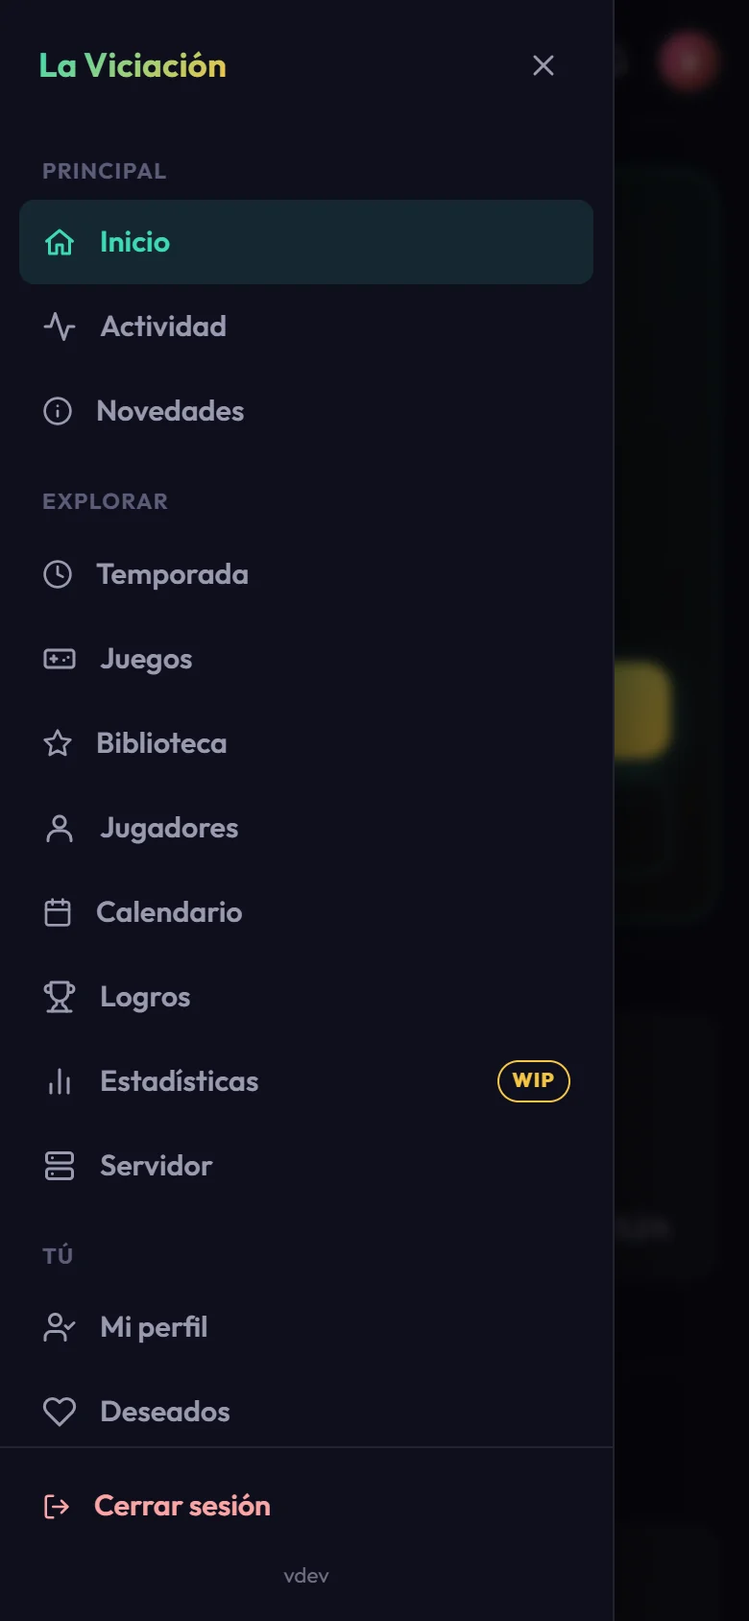
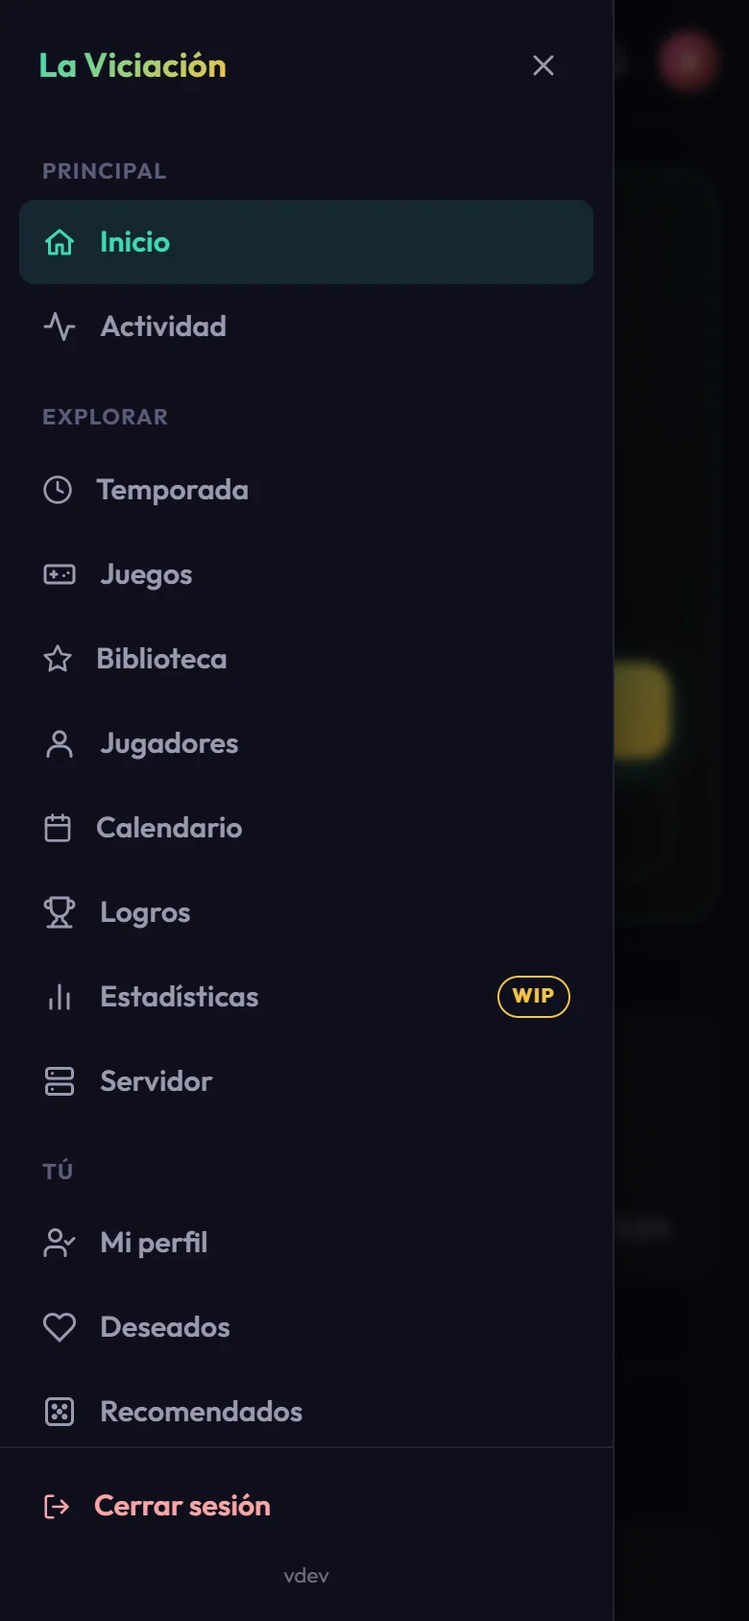
docs: reorganize the user guide so each menu page is easy to find
Split El grupo into El grupo and Juegos, biblioteca y calendario, and Deseados, recomendados y retos into Deseados y recomendados, Retos and Asistente. Rename the page of the timer to Inicio. The menu in Primeros pasos now links to the section of every entry, and Novedades, the assistant and the Resumen have a section of their own there. Add two FAQ entries (the city and birth date, and where the games and sessions are) and retake the menu screenshots, which showed an entry that no longer exists.

diff --git a/docs/guia-usuario/descubrir.md b/docs/guia-usuario/descubrir.md
@@ -1,6 +1,6 @@
-# Deseados, recomendados y retos
+# Deseados y recomendados
 
-Tres páginas del bloque **Tú** para decidir a qué jugar y marcarte objetivos.
+Dos páginas del bloque **Tú** para decidir a qué jugar. Los objetivos con fecha están en [Retos](retos.md) y, si quieres preguntarle algo a alguien, tienes el [asistente](asistente.md).
 
 ## Deseados
 
@@ -22,55 +22,3 @@ Un juego se queda en la lista hasta que lo quites tú con la ✕, aunque ya lo e
 **Menú → Recomendados** te propone **12 juegos** que tienen otros jugadores y tú nunca has jugado. Se escogen al azar, favoreciendo los que encajan contigo. Cada visita, o **Otras recomendaciones**, puede darte unos distintos.
 
 ![Juegos recomendados](../assets/screens/recommendations.webp){ .screenshot }
-
-## Retos
-
-**Menú → Retos** reúne objetivos con fecha de inicio y de fin, a diferencia de los logros. Hay dos tipos:
-
-![La página de retos](../assets/screens/challenges.webp){ .screenshot }
-
-**Del grupo** (los lanza un administrador):
-
-- **Reto de juego** (el *juego del mes* cuando dura un mes): un juego, un mes, una semana o unas fechas, unas horas mínimas por jugador y un total entre todos. Ves una barra por jugador (verde al llegar a su mínimo) y otra para el grupo.
-- **Temático**: una temática (un género, una ambientación o un tema: Terror, Metroidvania, Medieval…), un mes y lo que tiene que hacer cada jugador: jugar un número de horas o completar al menos un juego. Cuenta cualquier juego de esa temática. En la tarjeta del reto ves cuántos juegos de esa temática tiene el grupo y cuántos tienes tú (en rojo si no tienes ninguno, para que decidas si compras alguno, te sales o no te apuntas), y **Ver los juegos** los lista con quién los tiene.
-
-- **Horas entre todos**: un mes y un total de horas que tiene que sumar el grupo entero, de cualquier juego. No hay mínimo por jugador: cada uno ve cuánto ha aportado, y cumple su parte si el grupo llega al total y él ha jugado algo.
-
-La página reúne los retos en bloques: **Del grupo**, **Tuyos**, **Duelos** (los tuyos) y **De otros jugadores** (los personales y duelos que han lanzado los demás, que puedes mirar). En cada bloque van primero los que están en marcha y luego los terminados, pero solo se enseñan los **5 últimos terminados**: **Ver todos los terminados** carga el resto. Arriba, una línea resume tus retos («3 retos en marcha · 1 cumplido · 1 con poco tiempo»). En cada tarjeta ves cuánto tiempo queda y el progreso de cada jugador.
-
-Puedes **dejar de participar** y volver mientras el reto no haya terminado. Cuando el grupo alcanza el total, se avisa una vez. Un administrador puede lanzar un reto del grupo como **voluntario**: no cuenta nadie hasta que se **apunta** (botón *Apuntarme*), y solo cuentan los que se apuntan.
-
-**Proponer un reto al grupo.** Con **Proponer al grupo** sugieres un reto de juego o un reto temático (el juego o la temática, el periodo —un mes, una semana o unas fechas— y las horas). Un administrador lo aprueba, y entonces se lanza como un reto del grupo, o lo rechaza con una nota. En **Tus propuestas** ves en qué estado está cada una y puedes **retirar** las que aún esperan respuesta. Puedes tener hasta 3 esperando a la vez.
-
-
-**Personales** (los lanzas tú con **Nuevo reto**; los demás los ven, pero nadie recibe aviso):
-
-- **Probar un género**: elige un género de la base de datos y juega unas horas (2 por defecto) o completa uno de esos juegos, en una semana, un mes o tres meses. Solo cuentan juegos de ese género que no tuvieras ya en tu biblioteca.
-- **Bajar la deuda**: un objetivo sobre tu **deuda** (lo que te falta para terminar los juegos que has empezado), en porcentaje o en número de juegos. La app te dice, antes de lanzarlo, lo que significa («El 25 % de tu deuda son unas 10 h»).
-- **Racha**: juega varios días seguidos (o varios días distintos) dentro del plazo. Un día cuenta cuando juegas al menos 10 minutos, igual que en las rachas y los logros.
-- **Sesiones largas**: haz un número de sesiones de al menos los minutos que elijas, de cualquier juego.
-- **Variar de género**: juega a varios géneros distintos, dedicando a cada uno las horas que pidas. El tiempo de un juego cuenta en cada uno de sus géneros.
-- **Cumplir deseados**: empieza o completa juegos de tu lista de deseados. Solo cuentan los que ya estaban en ella el día que lanzas el reto; si quitas uno de la lista, deja de contar.
-- **Terminar lo empezado**: completa un número de los juegos que ya tenías empezados (con una sesión de 10 minutos o más, sin completar ni abandonar) cuando lanzas el reto. Los juegos que empieces después no cuentan.
-- **Terminar antes de empezar**: no puedes empezar ningún juego nuevo sin haber terminado antes uno de los que ya tenías empezados. **Ganas** al completar uno de ellos y **pierdes** en el momento en que empiezas un juego nuevo sin haber completado antes ninguno. Si lo haces el mismo día, cuenta primero el que completaste. Para lanzarlo necesitas tener al menos un juego empezado y sin terminar.
-
-**Cómo vas.** Cada reto en el que participas te dice, dentro de la propia app, cómo estás: *Ya has cumplido tu parte*, *Vas bien*, *Vas por detrás del ritmo* (llevas menos de lo que toca por el tiempo que ha pasado), o, en los últimos días, *Quedan 2 días: te faltan 1,5 h*. Arriba de la página se cuenta cuántos tienes en marcha, cuántos cumplidos y cuántos con poco tiempo, y en el **Inicio** aparece una tarjeta **Mis retos** con los que están en marcha, los más urgentes primero. Es solo para ti: no se avisa a nadie.
-
-- **Duelo de horas**, **Duelo en un juego** y **Duelo de completados**: retas a otro jugador a ver quién juega más (en total o a un juego concreto) o quién completa más juegos, durante una semana, un mes o tres meses. **Empieza al lanzarlo**; el retado puede **rechazarlo durante las primeras 48 horas** (el rechazo no se puede deshacer). Pasado ese plazo, el duelo sigue adelante. Gana quien más horas (o más juegos completados) sume y, si empatan, ganan los dos. Un duelo rechazado no cuenta para nadie. Los demás lo ven, pero nadie recibe aviso. El retado lo rechaza con **Rechazar duelo**, que desaparece pasadas las 48 horas.
-
-Un reto personal o un duelo que lanzaste lo puedes quitar con **Borrar** (pide una segunda pulsación).
-
-El administrador puede lanzar un reto del grupo (de juego o temático) **como competición**: además de cumplir el objetivo, se ve quién va primero, con medallas, y el puesto aparece en tu línea.
-
-Tus retos terminados, con cómo te fue, quedan en **Perfil → Resumen → Retos**.
-
-## Asistente (chat)
-
-Si el administrador tiene la IA activada, verás un botón redondo abajo a la derecha en todas las pantallas. Ábrelo y pregunta lo que quieras sobre videojuegos y sobre los datos del grupo: quién lleva más horas, qué juegos de terror tenéis, cuál es tu racha, cuánto ha jugado alguien a un juego, qué has apuntado en deseados...
-
-- Solo habla de videojuegos y de los datos de La Viciación; de otras cosas no te responderá.
-- También sabe **cómo funciona la app** (temporadas, rachas, sesiones, notificaciones, quién ve qué…), qué logros te faltan (sin contarte de qué van los que aún no tienes) y cuántas preguntas te quedan en el chat.
-- No guarda las conversaciones: al recargar la página o cerrar sesión empiezas de cero. El botón ↺ también empieza una nueva.
-- Ve lo mismo que ves tú en el grupo (nunca la biblioteca ni los datos privados de otra persona).
-- Hay un límite de preguntas, para que nadie gaste el cupo de la IA. Si te pasas, el chat te dice cuánto esperar.
-

diff --git a/docs/guia-usuario/grupo.md b/docs/guia-usuario/grupo.md
@@ -1,6 +1,6 @@
 # El grupo
 
-Todo lo que está en **Principal** y **Explorar** del menú es del grupo entero: ves lo que hacen los demás y ellos ven lo tuyo (nunca tu email, tu Telegram ni tus ajustes).
+Las páginas del grupo: lo que está en **Principal** y **Explorar** del menú es del grupo entero. Los juegos, la biblioteca y el calendario tienen su propia página: [Juegos, biblioteca y calendario](juegos.md). Aquí: ves lo que hacen los demás y ellos ven lo tuyo (nunca tu email, tu Telegram ni tus ajustes).
 
 ## Quién está jugando ahora
 
@@ -41,44 +41,6 @@ Los nombres de los jugadores no enlazan a su perfil: para eso está [Jugadores](
 Al pulsar uno ves **su página**: sus cifras por temporada, sus juegos más jugados con sus notas y sus últimos logros. En la de otro jugador, al final, la sección plegable **En común con…** trae la **afinidad contigo**, un porcentaje que dice cuánto se parecen vuestros gustos: cuánto coincidís en los juegos que tenéis, en las notas que les habéis puesto y en los géneros a los que dedicáis tiempo. Con pocos juegos en común dice que hay pocos datos. Debajo separa los juegos que **tenéis los dos** (con las horas, si lo completó y la nota de cada uno), los que **solo tienes tú** y los que **solo tiene él o ella**, cada lista del más jugado al menos. Los logros que se listan en una página de jugador son los cinco últimos.
 
 ![La página de otro jugador](../assets/screens/player.webp){ .screenshot }
-
-## Juegos
-
-**Menú → Juegos** es el catálogo compartido, en tarjetas con la portada, los géneros, si lo tienes en tu biblioteca, si alguien lo está jugando, cuántos jugadores lo tienen, las horas del grupo y la nota media.
-
-![El catálogo de juegos](../assets/screens/games.webp){ .screenshot }
-
-Puedes buscar por nombre (según escribes), **ordenar** (*Actividad reciente*, *Más jugados*, *Mejor valorados*, *Más jugadores*, *Fecha de salida*, *Nombre*) y filtrar por **género**, por **tu biblioteca** (*Los que tengo* / *Los que no tengo*) y con los botones *Jugándose ahora*, *Con jugadores*, *Completados por mí* y *Puntuados por mí*, que se pueden combinar. Debajo del buscador pone cuántos juegos coinciden y **Mostrar más** carga los siguientes. Cada tarjeta lleva etiquetas: **Jugándose** (alguien tiene un timer en marcha), **DLC**, **En tu biblioteca** y **En tu lista** (de deseados). **Añadir juego** busca en IGDB (admite el nombre a medias, y los números romanos) y lleva a la página del juego recién creado.
-
-Al pulsar un juego abres **su página**: portada, géneros, desarrollador, fecha de lanzamiento, tiempo medio para completarlo, las cifras del grupo, tu nota (que puedes poner o cambiar ahí mismo) y la lista de **Quién lo juega** con sus horas, sesiones, temporadas, completados (y cuántas veces, si más de una), notas y las etiquetas *Jugando ahora* e *Inactivo*. Si no lo tienes en tu biblioteca, la página te deja **Añadir a mi lista** (o **Quitar de mi lista**) de deseados; arriba, **← Volver** te devuelve a donde estabas. Si el juego es de una saga, la tarjeta **Saga** (a la derecha de «Quién lo juega» en una pantalla ancha, debajo en el móvil) lista las entregas de la más reciente a la más antigua con lo que tienes de cada una (completada, en tu biblioteca o sin tener), cuántos jugadores la tienen y cuál es la **siguiente** que te falta; los datos vienen de IGDB, así que si no responde la tarjeta no sale. En el móvil se puede plegar pulsando su título; en una pantalla ancha va siempre abierta. Si ya lo has jugado, una tarjeta compara **tu ritmo**: lo que tardaste (o llevas) frente a lo que ha tardado el resto del grupo en completarlo y frente al tiempo medio de HowLongToBeat. Si es un DLC o una expansión lo indica con la marca **DLC** y enlaza al juego base.
-
-Si IGDB o Steam conocen el juego, bajo el título aparecen unos datos de fuera del grupo: la **nota de la crítica** y la de los **usuarios** de IGDB y la **clasificación por edades**, en una fila junto al botón **Ver en IGDB**. La **descripción** va justo bajo el nombre (en español si Steam la tiene; si no, la de IGDB, en inglés; se recorta y se amplía al tocarla), seguida del **editor** y de las **plataformas** en las que salió el juego (en pastillas pequeñas), y una tarjeta **Multimedia** trae el **tráiler** (no se descarga hasta que le das al play) y las **capturas** en un carrusel. En una pantalla ancha el tráiler está a la derecha de la cabecera y las capturas debajo, a todo el ancho; en el móvil es un bloque bajo la cabecera, abierto, que puedes ocultar con su botón. Las etiquetas del juego se limitan a las 6 primeras, con un botón **+N** para ver el resto. Solo sale lo que haya: un juego que ni Steam ni IGDB conocen, como muchos de Nintendo, no tiene estos datos, y si esas páginas fallan simplemente no aparecen. Nada de esto se guarda en La Viciación.
-
-La página tiene dos mitades, separadas por un título: arriba, **lo que dice el mundo** del juego (descripción, notas, tráiler) y, bajo **En el grupo**, **lo nuestro**: las cifras del grupo, tu nota, tu ritmo, quién lo juega y la saga. La media que han puesto los jugadores se llama **Nota del grupo**, para no confundirla con las de IGDB.
-
-![La página de un juego](../assets/screens/game.webp){ .screenshot }
-
-!!! info "El tiempo medio para completar"
-    Sale de [HowLongToBeat](https://howlongtobeat.com) (la historia principal). Con él se calcula la **deuda**: cuánto te falta por jugar de los juegos que has empezado y no has terminado.
-
-## Biblioteca del grupo
-
-**Menú → Biblioteca** junta las bibliotecas de todos: cuántos juegos distintos hay, cuántos jugadores y cuántas horas, y siete secciones para curiosear (cada lista enseña los 10 primeros):
-
-- **Joyas ocultas**: juegos que tienen pocos jugadores y a los que han dado muy buena nota.
-- **El cementerio**: juegos que alguien ha abandonado y no ha vuelto a tocar, con quién los dejó.
-- **Rarezas**: juegos que solo tiene una persona, los más jugados primero.
-- **Sin tocar**: juegos que alguien tiene y que nadie ha jugado nunca.
-- **Por género** y **por plataforma**: cuántos juegos de las bibliotecas hay de cada género y de cada plataforma.
-- **Rentabilidad**: cuánto cuesta de media cada hora de un juego, los más baratos y los más caros. Sale de los precios que apuntan los jugadores, pero **solo aparece un juego si al menos 3 jugadores han puesto su precio y lo han jugado**, y nunca se enseña el precio ni la identidad de nadie (las horas de cada uno sí son públicas, y con ellas se podría deducir lo que pagó). En la página del juego sale como **Coste por hora**.
-
-Cada juego enlaza a su página. Arriba hay una fila de **botones**, uno por sección, que te lleva directo a ella (y la abre si estaba plegada), y cada sección se puede **plegar** pulsando su título.
-
-## Calendario
-
-**Menú → Calendario** pone en un mes (empezando en lunes) **todos los juegos del catálogo con fecha de lanzamiento**, los hayan jugado o no. Pulsa un día para ver sus juegos en una ventana y entrar en cualquiera; el panel **Juegos del mes** los lista con quién quiere cada uno. Los juegos sin fecha confirmada que alguien desea aparecen aparte, y las flechas ‹ y › cambian de mes y el botón **Hoy** te devuelve al mes en curso (solo sale si estás en otro).
-
-![Calendario de lanzamientos](../assets/screens/calendar.webp){ .screenshot }
 
 ## Servidor
 

diff --git a/docs/guia-usuario/juegos.md b/docs/guia-usuario/juegos.md
@@ -1,0 +1,41 @@
+# Juegos, biblioteca y calendario
+
+Las páginas de **Explorar** que giran en torno a los juegos: el catálogo compartido (**Juegos**), las bibliotecas de todos juntas (**Biblioteca**) y el **Calendario** de lanzamientos. Lo que haces con tus propios juegos está en [Tu perfil](perfil.md) y en [Inicio](sesiones.md).
+
+## Juegos
+
+**Menú → Juegos** es el catálogo compartido, en tarjetas con la portada, los géneros, si lo tienes en tu biblioteca, si alguien lo está jugando, cuántos jugadores lo tienen, las horas del grupo y la nota media.
+
+![El catálogo de juegos](../assets/screens/games.webp){ .screenshot }
+
+Puedes buscar por nombre (según escribes), **ordenar** (*Actividad reciente*, *Más jugados*, *Mejor valorados*, *Más jugadores*, *Fecha de salida*, *Nombre*) y filtrar por **género**, por **tu biblioteca** (*Los que tengo* / *Los que no tengo*) y con los botones *Jugándose ahora*, *Con jugadores*, *Completados por mí* y *Puntuados por mí*, que se pueden combinar. Debajo del buscador pone cuántos juegos coinciden y **Mostrar más** carga los siguientes. Cada tarjeta lleva etiquetas: **Jugándose** (alguien tiene un timer en marcha), **DLC**, **En tu biblioteca** y **En tu lista** (de deseados). **Añadir juego** busca en IGDB (admite el nombre a medias, y los números romanos) y lleva a la página del juego recién creado.
+
+Al pulsar un juego abres **su página**: portada, géneros, desarrollador, fecha de lanzamiento, tiempo medio para completarlo, las cifras del grupo, tu nota (que puedes poner o cambiar ahí mismo) y la lista de **Quién lo juega** con sus horas, sesiones, temporadas, completados (y cuántas veces, si más de una), notas y las etiquetas *Jugando ahora* e *Inactivo*. Si no lo tienes en tu biblioteca, la página te deja **Añadir a mi lista** (o **Quitar de mi lista**) de deseados; arriba, **← Volver** te devuelve a donde estabas. Si el juego es de una saga, la tarjeta **Saga** (a la derecha de «Quién lo juega» en una pantalla ancha, debajo en el móvil) lista las entregas de la más reciente a la más antigua con lo que tienes de cada una (completada, en tu biblioteca o sin tener), cuántos jugadores la tienen y cuál es la **siguiente** que te falta; los datos vienen de IGDB, así que si no responde la tarjeta no sale. En el móvil se puede plegar pulsando su título; en una pantalla ancha va siempre abierta. Si ya lo has jugado, una tarjeta compara **tu ritmo**: lo que tardaste (o llevas) frente a lo que ha tardado el resto del grupo en completarlo y frente al tiempo medio de HowLongToBeat. Si es un DLC o una expansión lo indica con la marca **DLC** y enlaza al juego base.
+
+Si IGDB o Steam conocen el juego, bajo el título aparecen unos datos de fuera del grupo: la **nota de la crítica** y la de los **usuarios** de IGDB y la **clasificación por edades**, en una fila junto al botón **Ver en IGDB**. La **descripción** va justo bajo el nombre (en español si Steam la tiene; si no, la de IGDB, en inglés; se recorta y se amplía al tocarla), seguida del **editor** y de las **plataformas** en las que salió el juego (en pastillas pequeñas), y una tarjeta **Multimedia** trae el **tráiler** (no se descarga hasta que le das al play) y las **capturas** en un carrusel. En una pantalla ancha el tráiler está a la derecha de la cabecera y las capturas debajo, a todo el ancho; en el móvil es un bloque bajo la cabecera, abierto, que puedes ocultar con su botón. Las etiquetas del juego se limitan a las 6 primeras, con un botón **+N** para ver el resto. Solo sale lo que haya: un juego que ni Steam ni IGDB conocen, como muchos de Nintendo, no tiene estos datos, y si esas páginas fallan simplemente no aparecen. Nada de esto se guarda en La Viciación.
+
+La página tiene dos mitades, separadas por un título: arriba, **lo que dice el mundo** del juego (descripción, notas, tráiler) y, bajo **En el grupo**, **lo nuestro**: las cifras del grupo, tu nota, tu ritmo, quién lo juega y la saga. La media que han puesto los jugadores se llama **Nota del grupo**, para no confundirla con las de IGDB.
+
+![La página de un juego](../assets/screens/game.webp){ .screenshot }
+
+!!! info "El tiempo medio para completar"
+    Sale de [HowLongToBeat](https://howlongtobeat.com) (la historia principal). Con él se calcula la **deuda**: cuánto te falta por jugar de los juegos que has empezado y no has terminado.
+
+## Biblioteca del grupo
+
+**Menú → Biblioteca** junta las bibliotecas de todos: cuántos juegos distintos hay, cuántos jugadores y cuántas horas, y siete secciones para curiosear (cada lista enseña los 10 primeros):
+
+- **Joyas ocultas**: juegos que tienen pocos jugadores y a los que han dado muy buena nota.
+- **El cementerio**: juegos que alguien ha abandonado y no ha vuelto a tocar, con quién los dejó.
+- **Rarezas**: juegos que solo tiene una persona, los más jugados primero.
+- **Sin tocar**: juegos que alguien tiene y que nadie ha jugado nunca.
+- **Por género** y **por plataforma**: cuántos juegos de las bibliotecas hay de cada género y de cada plataforma.
+- **Rentabilidad**: cuánto cuesta de media cada hora de un juego, los más baratos y los más caros. Sale de los precios que apuntan los jugadores, pero **solo aparece un juego si al menos 3 jugadores han puesto su precio y lo han jugado**, y nunca se enseña el precio ni la identidad de nadie (las horas de cada uno sí son públicas, y con ellas se podría deducir lo que pagó). En la página del juego sale como **Coste por hora**.
+
+Cada juego enlaza a su página. Arriba hay una fila de **botones**, uno por sección, que te lleva directo a ella (y la abre si estaba plegada), y cada sección se puede **plegar** pulsando su título.
+
+## Calendario
+
+**Menú → Calendario** pone en un mes (empezando en lunes) **todos los juegos del catálogo con fecha de lanzamiento**, los hayan jugado o no. Pulsa un día para ver sus juegos en una ventana y entrar en cualquiera; el panel **Juegos del mes** los lista con quién quiere cada uno. Los juegos sin fecha confirmada que alguien desea aparecen aparte, y las flechas ‹ y › cambian de mes y el botón **Hoy** te devuelve al mes en curso (solo sale si estás en otro).
+
+![Calendario de lanzamientos](../assets/screens/calendar.webp){ .screenshot }

diff --git a/docs/guia-usuario/retos.md b/docs/guia-usuario/retos.md
@@ -1,0 +1,40 @@
+# Retos
+
+**Menú → Retos** reúne objetivos con fecha de inicio y de fin, a diferencia de los logros. Hay dos tipos:
+
+![La página de retos](../assets/screens/challenges.webp){ .screenshot }
+
+**Del grupo** (los lanza un administrador):
+
+- **Reto de juego** (el *juego del mes* cuando dura un mes): un juego, un mes, una semana o unas fechas, unas horas mínimas por jugador y un total entre todos. Ves una barra por jugador (verde al llegar a su mínimo) y otra para el grupo.
+- **Temático**: una temática (un género, una ambientación o un tema: Terror, Metroidvania, Medieval…), un mes y lo que tiene que hacer cada jugador: jugar un número de horas o completar al menos un juego. Cuenta cualquier juego de esa temática. En la tarjeta del reto ves cuántos juegos de esa temática tiene el grupo y cuántos tienes tú (en rojo si no tienes ninguno, para que decidas si compras alguno, te sales o no te apuntas), y **Ver los juegos** los lista con quién los tiene.
+
+- **Horas entre todos**: un mes y un total de horas que tiene que sumar el grupo entero, de cualquier juego. No hay mínimo por jugador: cada uno ve cuánto ha aportado, y cumple su parte si el grupo llega al total y él ha jugado algo.
+
+La página reúne los retos en bloques: **Del grupo**, **Tuyos**, **Duelos** (los tuyos) y **De otros jugadores** (los personales y duelos que han lanzado los demás, que puedes mirar). En cada bloque van primero los que están en marcha y luego los terminados, pero solo se enseñan los **5 últimos terminados**: **Ver todos los terminados** carga el resto. Arriba, una línea resume tus retos («3 retos en marcha · 1 cumplido · 1 con poco tiempo»). En cada tarjeta ves cuánto tiempo queda y el progreso de cada jugador.
+
+Puedes **dejar de participar** y volver mientras el reto no haya terminado. Cuando el grupo alcanza el total, se avisa una vez. Un administrador puede lanzar un reto del grupo como **voluntario**: no cuenta nadie hasta que se **apunta** (botón *Apuntarme*), y solo cuentan los que se apuntan.
+
+**Proponer un reto al grupo.** Con **Proponer al grupo** sugieres un reto de juego o un reto temático (el juego o la temática, el periodo —un mes, una semana o unas fechas— y las horas). Un administrador lo aprueba, y entonces se lanza como un reto del grupo, o lo rechaza con una nota. En **Tus propuestas** ves en qué estado está cada una y puedes **retirar** las que aún esperan respuesta. Puedes tener hasta 3 esperando a la vez.
+
+
+**Personales** (los lanzas tú con **Nuevo reto**; los demás los ven, pero nadie recibe aviso):
+
+- **Probar un género**: elige un género de la base de datos y juega unas horas (2 por defecto) o completa uno de esos juegos, en una semana, un mes o tres meses. Solo cuentan juegos de ese género que no tuvieras ya en tu biblioteca.
+- **Bajar la deuda**: un objetivo sobre tu **deuda** (lo que te falta para terminar los juegos que has empezado), en porcentaje o en número de juegos. La app te dice, antes de lanzarlo, lo que significa («El 25 % de tu deuda son unas 10 h»).
+- **Racha**: juega varios días seguidos (o varios días distintos) dentro del plazo. Un día cuenta cuando juegas al menos 10 minutos, igual que en las rachas y los logros.
+- **Sesiones largas**: haz un número de sesiones de al menos los minutos que elijas, de cualquier juego.
+- **Variar de género**: juega a varios géneros distintos, dedicando a cada uno las horas que pidas. El tiempo de un juego cuenta en cada uno de sus géneros.
+- **Cumplir deseados**: empieza o completa juegos de tu lista de deseados. Solo cuentan los que ya estaban en ella el día que lanzas el reto; si quitas uno de la lista, deja de contar.
+- **Terminar lo empezado**: completa un número de los juegos que ya tenías empezados (con una sesión de 10 minutos o más, sin completar ni abandonar) cuando lanzas el reto. Los juegos que empieces después no cuentan.
+- **Terminar antes de empezar**: no puedes empezar ningún juego nuevo sin haber terminado antes uno de los que ya tenías empezados. **Ganas** al completar uno de ellos y **pierdes** en el momento en que empiezas un juego nuevo sin haber completado antes ninguno. Si lo haces el mismo día, cuenta primero el que completaste. Para lanzarlo necesitas tener al menos un juego empezado y sin terminar.
+
+**Cómo vas.** Cada reto en el que participas te dice, dentro de la propia app, cómo estás: *Ya has cumplido tu parte*, *Vas bien*, *Vas por detrás del ritmo* (llevas menos de lo que toca por el tiempo que ha pasado), o, en los últimos días, *Quedan 2 días: te faltan 1,5 h*. Arriba de la página se cuenta cuántos tienes en marcha, cuántos cumplidos y cuántos con poco tiempo, y en el **Inicio** aparece una tarjeta **Mis retos** con los que están en marcha, los más urgentes primero. Es solo para ti: no se avisa a nadie.
+
+- **Duelo de horas**, **Duelo en un juego** y **Duelo de completados**: retas a otro jugador a ver quién juega más (en total o a un juego concreto) o quién completa más juegos, durante una semana, un mes o tres meses. **Empieza al lanzarlo**; el retado puede **rechazarlo durante las primeras 48 horas** (el rechazo no se puede deshacer). Pasado ese plazo, el duelo sigue adelante. Gana quien más horas (o más juegos completados) sume y, si empatan, ganan los dos. Un duelo rechazado no cuenta para nadie. Los demás lo ven, pero nadie recibe aviso. El retado lo rechaza con **Rechazar duelo**, que desaparece pasadas las 48 horas.
+
+Un reto personal o un duelo que lanzaste lo puedes quitar con **Borrar** (pide una segunda pulsación).
+
+El administrador puede lanzar un reto del grupo (de juego o temático) **como competición**: además de cumplir el objetivo, se ve quién va primero, con medallas, y el puesto aparece en tu línea.
+
+Tus retos terminados, con cómo te fue, quedan en **Perfil → Resumen → Retos**.

diff --git a/docs/guia-usuario/primeros-pasos.md b/docs/guia-usuario/primeros-pasos.md
@@ -21,9 +21,9 @@ El botón de la esquina superior izquierda abre el **menú lateral**, con todas 
 
 <div markdown>
 
-- **Principal**: Inicio y Actividad.
-- **Explorar** (lo que es de todo el grupo): Temporada (los rankings de la temporada en curso), Juegos, Biblioteca, Jugadores, Calendario, Logros, Estadísticas (todavía en construcción) y Servidor.
-- **Tú** (lo que es tuyo): Mi perfil, Deseados, Recomendados, Retos y Ajustes.
+- **Principal**: [Inicio](sesiones.md) y [Actividad](grupo.md#actividad).
+- **Explorar** (lo que es de todo el grupo): [Temporada](grupo.md#temporada) (los rankings de la temporada en curso), [Juegos](juegos.md#juegos), [Biblioteca](juegos.md#biblioteca-del-grupo), [Jugadores](grupo.md#jugadores), [Calendario](juegos.md#calendario), [Logros](logros.md), [Estadísticas](grupo.md#estadisticas) (todavía en construcción) y [Servidor](grupo.md#servidor).
+- **Tú** (lo que es tuyo): [Mi perfil](perfil.md), [Deseados](descubrir.md#deseados), [Recomendados](descubrir.md#recomendados), [Retos](retos.md) y [Ajustes](perfil.md#ajustes).
 - **Administración**: solo si eres administrador.
 - **Cerrar sesión**, al final. Bajo ese botón sale la **versión** de la app (por ejemplo «v2.39.0»); al pulsarla se abre la página de Novedades.
 
@@ -36,11 +36,19 @@ En el móvil el menú ocupa toda la pantalla:
 
 ![Menú en el móvil](../assets/screens/menu-phone.webp){ .screenshot width="260" }
 
-### Novedades
+## Novedades
 
 **Pulsar la versión al pie del menú** cuenta lo que ha ido cambiando en la app, de lo más reciente a lo más antiguo: lo nuevo, las mejoras y los arreglos que se notan al usarla. Las versiones pequeñas se juntan en una sola entrada, para no saturar.
 
 ![La página de novedades](../assets/screens/changelog.webp){ .screenshot }
+
+## El asistente
+
+En todas las pantallas hay un botón redondo, abajo a la derecha, que abre un chat donde preguntar sobre videojuegos, los datos del grupo y cómo funciona la app (si el administrador tiene la IA activada). Más en [Asistente](asistente.md).
+
+## El resumen
+
+A principios de cada mes la app te ofrece el [Resumen](resumen.md) del mes anterior, y a final de año el de la temporada.
 
 ## Instalarla como app
 

diff --git a/docs/guia-usuario/perfil.md b/docs/guia-usuario/perfil.md
@@ -29,7 +29,7 @@ Toda tu biblioteca, de todas las temporadas, con filtros por nombre (**Buscar ju
 
 ![Tu biblioteca completa](../assets/screens/profile-games.webp){ .screenshot }
 
-**Precio y coste por hora.** Cada juego tiene un botón **Precio**: apunta lo que pagaste por él, una casilla por cada plataforma en la que lo tienes (si lo compraste en PC y en Switch son dos precios; una casilla vacía quita el precio). El juego pasa a decir «Pagado: 24,99 €» y encima de la lista aparece **Lo que has gastado**: cuánto llevas gastado, el coste medio por hora y tus juegos más y menos rentables (los que han costado menos y más por hora jugada; solo cuentan los que has jugado al menos media hora). **Los precios son solo tuyos**: nadie del grupo los ve. Del grupo solo se enseña el coste medio por hora de un juego cuando al menos 3 jugadores han apuntado su precio (ver [Grupo](grupo.md)), y nunca el de nadie en concreto.
+**Precio y coste por hora.** Cada juego tiene un botón **Precio**: apunta lo que pagaste por él, una casilla por cada plataforma en la que lo tienes (si lo compraste en PC y en Switch son dos precios; una casilla vacía quita el precio). El juego pasa a decir «Pagado: 24,99 €» y encima de la lista aparece **Lo que has gastado**: cuánto llevas gastado, el coste medio por hora y tus juegos más y menos rentables (los que han costado menos y más por hora jugada; solo cuentan los que has jugado al menos media hora). **Los precios son solo tuyos**: nadie del grupo los ve. Del grupo solo se enseña el coste medio por hora de un juego cuando al menos 3 jugadores han apuntado su precio (ver [Biblioteca](juegos.md#biblioteca-del-grupo)), y nunca el de nadie en concreto.
 
 Si has jugado un mismo juego en varias plataformas dentro de una temporada, sale **en una sola fila** con todas sus plataformas, no una por plataforma; las horas son las del juego entero y el filtro de plataforma encuentra la fila con cualquiera de ellas.
 

diff --git a/docs/guia-usuario/index.md b/docs/guia-usuario/index.md
@@ -18,7 +18,7 @@ La Viciación es la app del grupo para llevar la cuenta de **cuánto y a qué ju
 
     Entrar, moverte por la app e instalarla en el móvil.
 
-- :material-timer-outline: **[Timers y sesiones](sesiones.md)**
+- :material-timer-outline: **[Inicio: timers y sesiones](sesiones.md)**
 
     Cómo registrar lo que juegas, completar juegos y puntuarlos.
 
@@ -28,19 +28,31 @@ La Viciación es la app del grupo para llevar la cuenta de **cuánto y a qué ju
 
 - :material-account-group: **[El grupo](grupo.md)**
 
-    Actividad, temporada, jugadores, catálogo de juegos, biblioteca y calendario.
+    Quién juega ahora, actividad, temporada, jugadores y servidor.
+
+- :material-gamepad-variant: **[Juegos, biblioteca y calendario](juegos.md)**
+
+    El catálogo, las bibliotecas de todos y los lanzamientos.
 
 - :material-trophy: **[Logros](logros.md)**
 
     La página de logros y cómo consultarla.
 
+- :material-heart: **[Deseados y recomendados](descubrir.md)**
+
+    Qué jugar a continuación.
+
+- :material-flag-checkered: **[Retos](retos.md)**
+
+    Objetivos con fecha, tuyos y del grupo.
+
 - :material-star-circle: **[Resumen e historia](resumen.md)**
 
     El «Wrapped» mensual y anual del grupo.
 
-- :material-heart: **[Deseados, recomendados y retos](descubrir.md)**
+- :material-robot-outline: **[Asistente](asistente.md)**
 
-    Qué jugar a continuación y objetivos con fecha.
+    El chat para preguntar sobre juegos y sobre la app.
 
 - :material-bell: **[Notificaciones y Telegram](notificaciones.md)**
 

diff --git a/docs/guia-usuario/preguntas-frecuentes.md b/docs/guia-usuario/preguntas-frecuentes.md
@@ -18,6 +18,12 @@
 ??? question "No me llegan las notificaciones"
     Comprueba en **Perfil → Ajustes → Notificaciones** que tienes marcado el canal, que has vinculado Telegram (`/activate`) o activado el push en ese dispositivo, y que el navegador tiene permiso. En iPhone hay que instalar la app primero. Las notificaciones push necesitan que el servidor use HTTPS.
 
+??? question "¿Para qué sirven la ciudad y la fecha de nacimiento?"
+    Son datos opcionales de tu perfil (**Perfil → Ajustes → Perfil**) que la app usa para hacer cosas chulas por dentro. Nadie más los ve. Puedes rellenarlos, cambiarlos o quitarlos cuando quieras; la tarjeta «Tu perfil está al X %» de tu [perfil](perfil.md) te avisa de lo que falta.
+
+??? question "¿Dónde está la lista de mis juegos y de mis sesiones?"
+    En **Inicio** ves los de la temporada en curso, y en **Perfil → Mis juegos** toda tu biblioteca, de todas las temporadas, con filtros. Desde cualquiera de las dos puedes editar tus sesiones (solo las de esta temporada). Más en [Inicio](sesiones.md#tu-historial-en-inicio) y [Mis juegos](perfil.md#mis-juegos).
+
 ??? question "¿Hay easter eggs?"
     La app esconde alguno. No te diremos cuántos ni dónde: ¡a descubrirlos!
 

diff --git a/docs/guia-usuario/asistente.md b/docs/guia-usuario/asistente.md
@@ -1,0 +1,9 @@
+# Asistente (chat)
+
+Si el administrador tiene la IA activada, verás un botón redondo abajo a la derecha en todas las pantallas. Ábrelo y pregunta lo que quieras sobre videojuegos y sobre los datos del grupo: quién lleva más horas, qué juegos de terror tenéis, cuál es tu racha, cuánto ha jugado alguien a un juego, qué has apuntado en deseados...
+
+- Solo habla de videojuegos y de los datos de La Viciación; de otras cosas no te responderá.
+- También sabe **cómo funciona la app** (temporadas, rachas, sesiones, notificaciones, quién ve qué…), qué logros te faltan (sin contarte de qué van los que aún no tienes) y cuántas preguntas te quedan en el chat.
+- No guarda las conversaciones: al recargar la página o cerrar sesión empiezas de cero. El botón ↺ también empieza una nueva.
+- Ve lo mismo que ves tú en el grupo (nunca la biblioteca ni los datos privados de otra persona).
+- Hay un límite de preguntas, para que nadie gaste el cupo de la IA. Si te pasas, el chat te dice cuánto esperar.

diff --git a/docs/guia-usuario/sesiones.md b/docs/guia-usuario/sesiones.md
@@ -1,4 +1,6 @@
-# Timers y sesiones
+# Inicio: timers y sesiones
+
+**Inicio** es la primera pantalla de la app: aquí pones el timer, apuntas una sesión a mano y ves tus juegos de la temporada.
 
 Una **sesión** es un rato jugando a un juego en una plataforma. Es lo único que registras tú: todo lo demás (horas, rankings, rachas, logros…) se calcula a partir de ellas.
 
